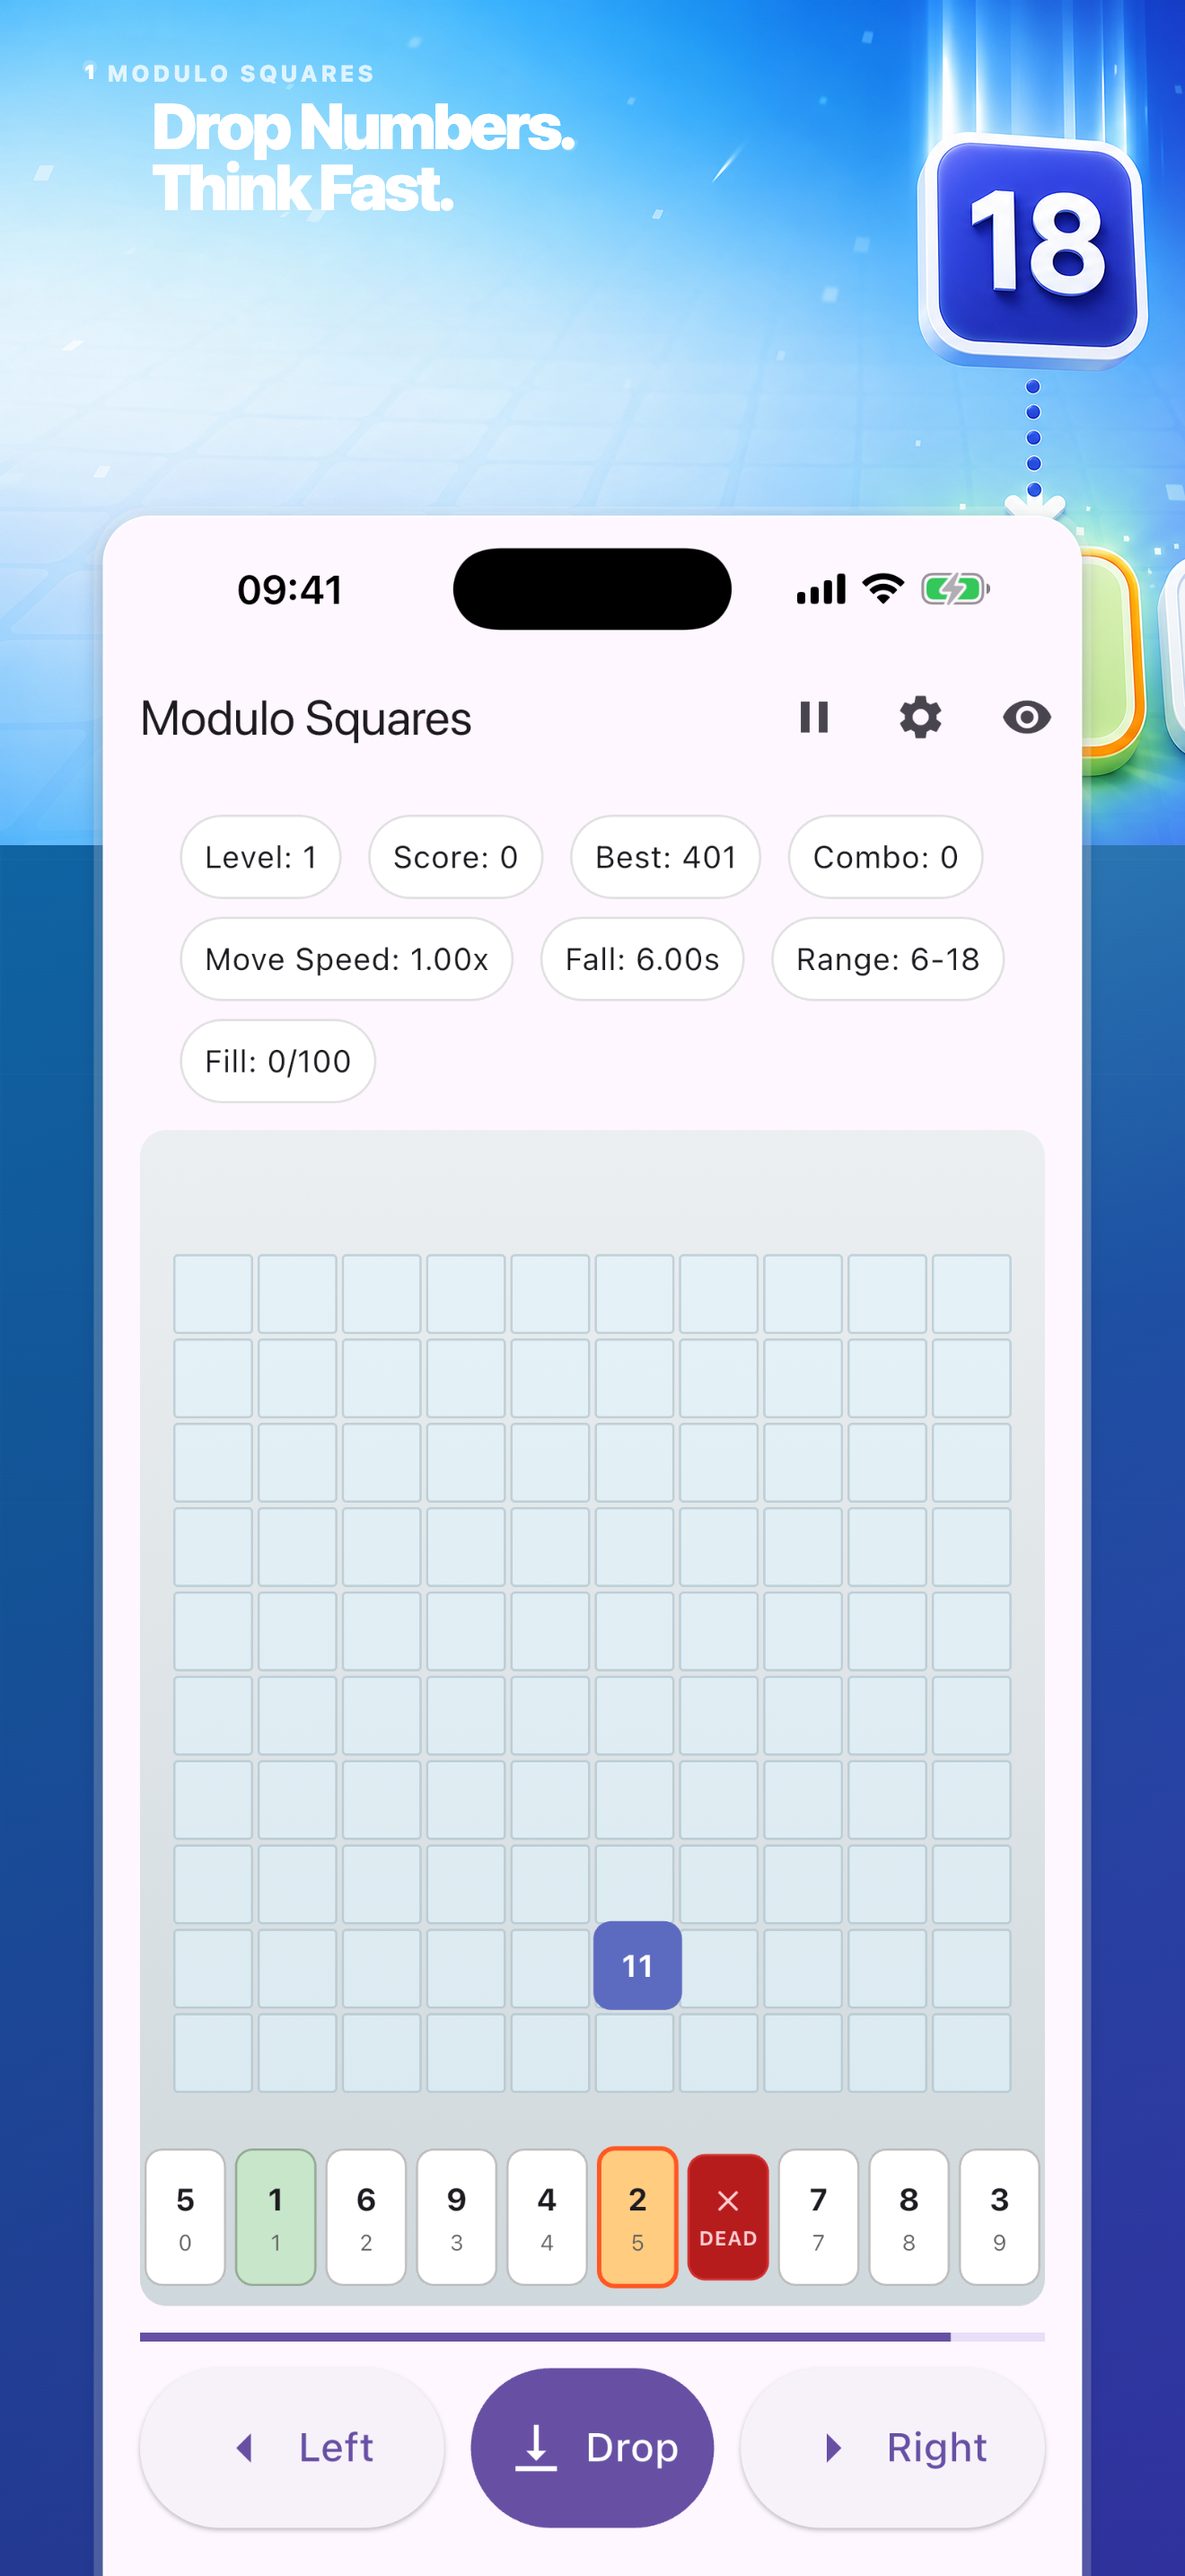
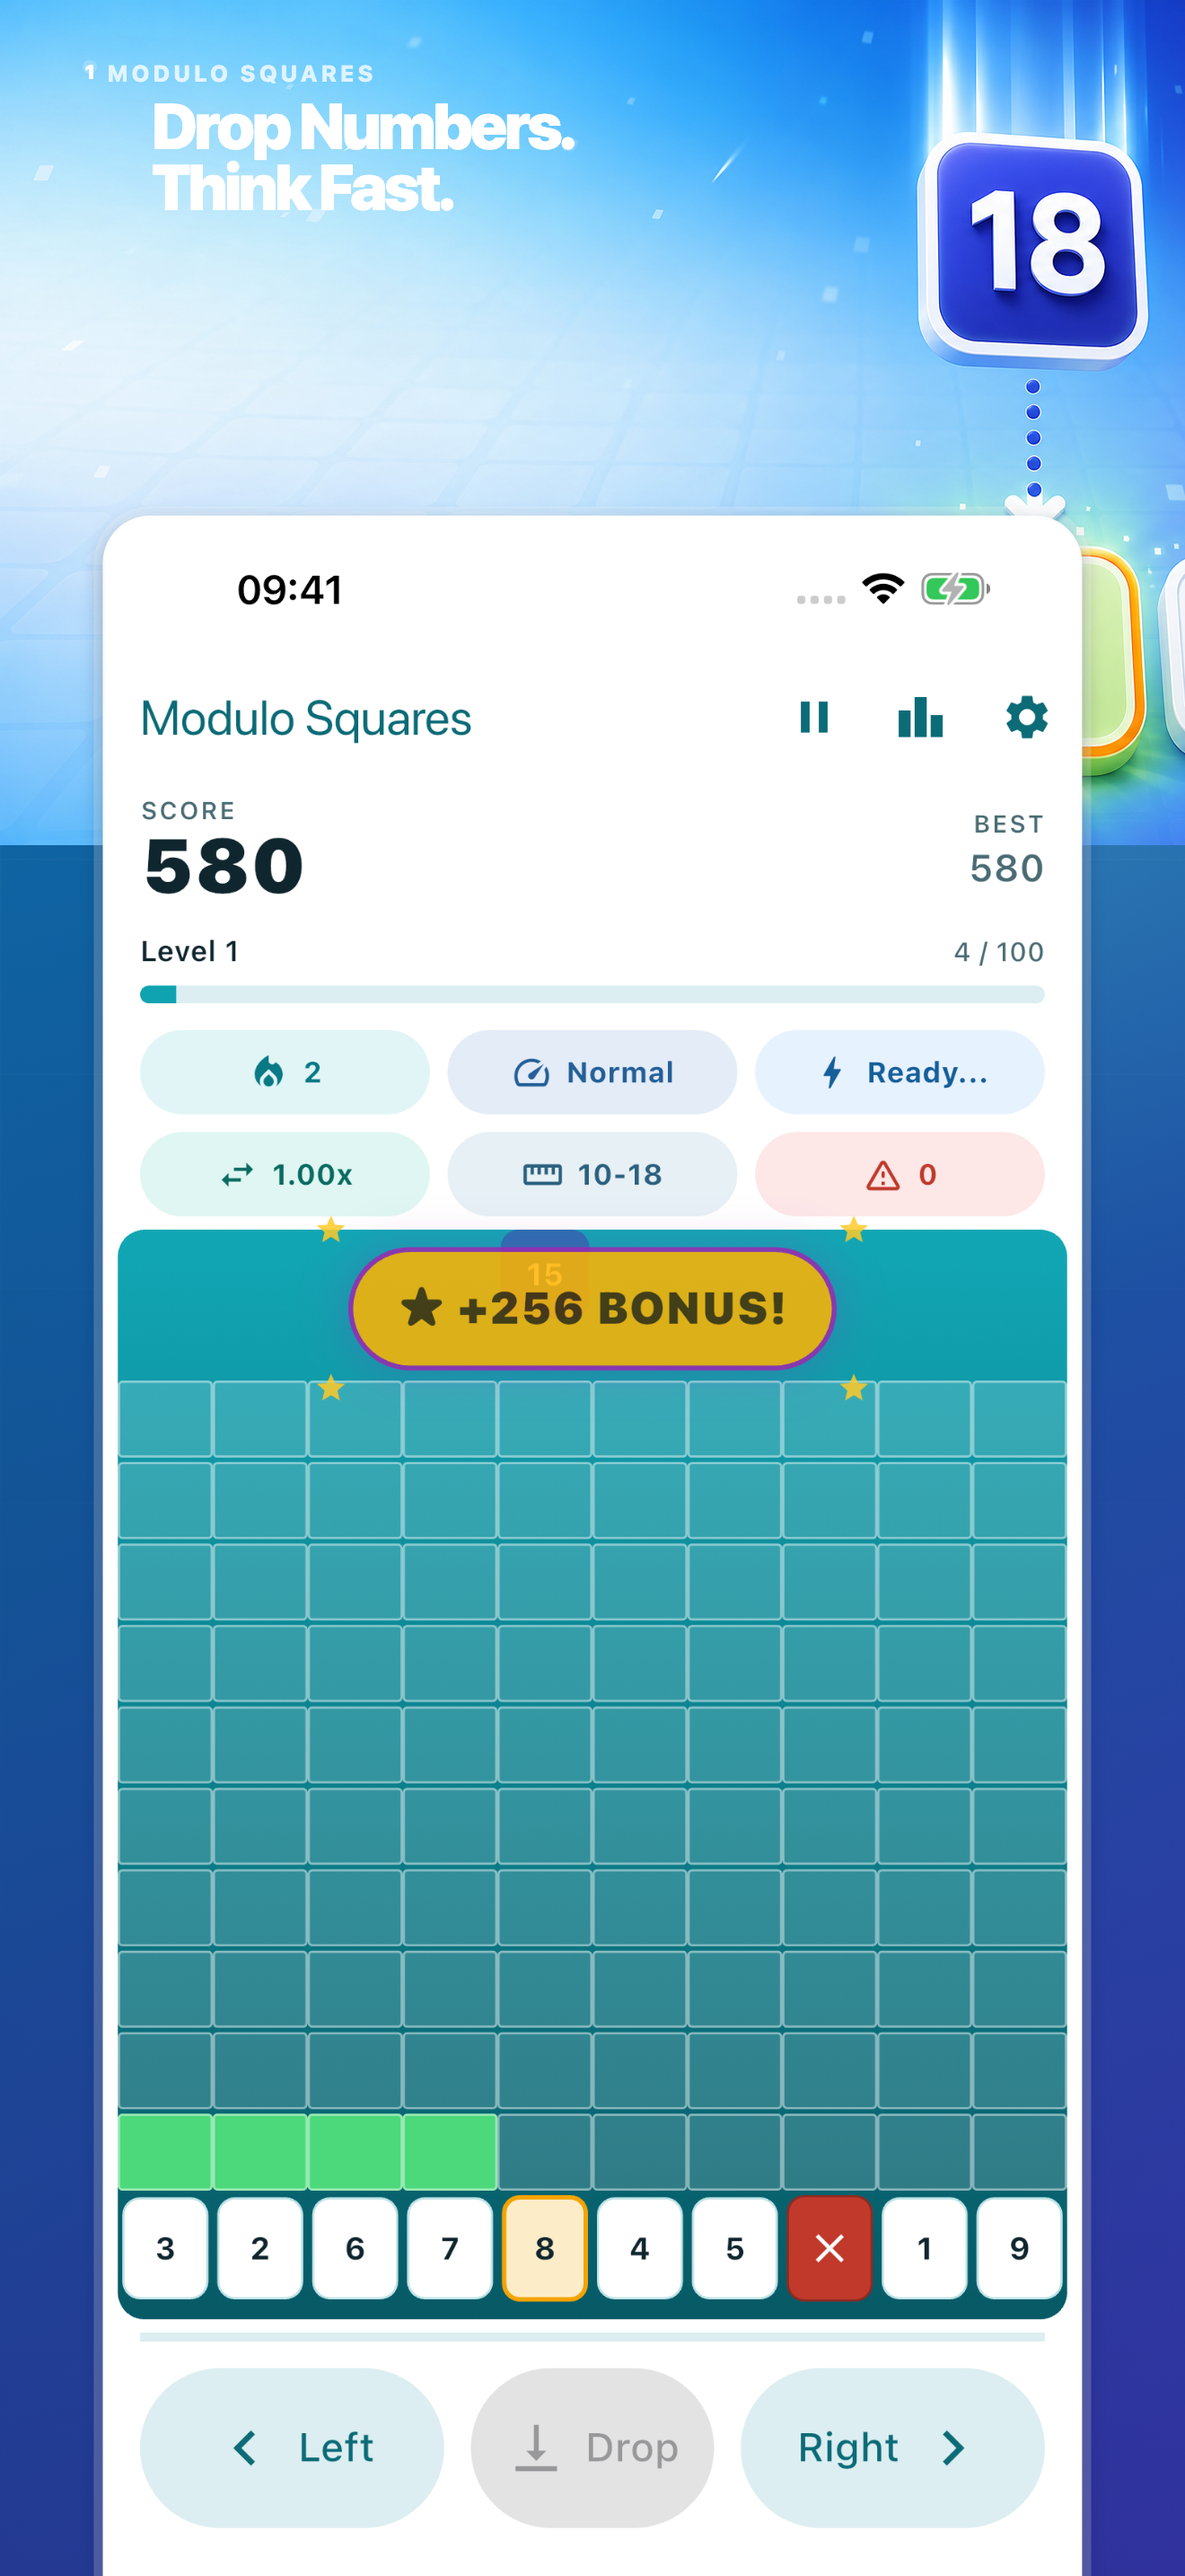
feat(ios): prepare 1.0.1 App Store submission
- Raise HUD chip text contrast to WCAG AA (4.5:1) across palettes, with a
  test that enforces it for every visible palette.
- Refresh the six 6.9" App Store screenshots from the current build
  (themes/Appearance, redesigned Settings difficulty row).
- 1.0.1 release notes and a themes line in the description.
- Fastfile: submit_to_app_store no longer overwrites release_notes.txt with
  a generic default; both deliver lanes pass app_version from pubspec so
  deliver can create the 1.0.1 version; optional build_number pin; drop the
  Info.plist version lookup that only returned $(FLUTTER_BUILD_NAME).

diff --git a/packages/mobile/lib/features/game/models/game_theme.dart b/packages/mobile/lib/features/game/models/game_theme.dart
@@ -119,14 +119,14 @@ const Map<GameThemeId, GameThemePalette> gameThemePalettes = {
     textMuted: Color(0xFF4A6B73),
     progressTrack: Color(0xFFDCEEF1),
     progressFill: Color(0xFF0FA3B1),
-    chipCombo: GameChipColors(bg: Color(0xFFE1F5F6), fg: Color(0xFF0FA3B1)),
+    chipCombo: GameChipColors(bg: Color(0xFFE1F5F6), fg: Color(0xFF087985)),
     chipDifficulty: GameChipColors(
       bg: Color(0xFFE3ECF7),
-      fg: Color(0xFF2A6FB0),
+      fg: Color(0xFF245F98),
     ),
-    chipFall: GameChipColors(bg: Color(0xFFE7F2FF), fg: Color(0xFF1C7ED6)),
-    chipMove: GameChipColors(bg: Color(0xFFDFF6F2), fg: Color(0xFF0E8C7F)),
-    chipRange: GameChipColors(bg: Color(0xFFE6F0F5), fg: Color(0xFF3A7CA5)),
+    chipFall: GameChipColors(bg: Color(0xFFE7F2FF), fg: Color(0xFF155E9A)),
+    chipMove: GameChipColors(bg: Color(0xFFDFF6F2), fg: Color(0xFF096B61)),
+    chipRange: GameChipColors(bg: Color(0xFFE6F0F5), fg: Color(0xFF2C607F)),
     chipDeficit: GameChipColors(bg: Color(0xFFFDE7E7), fg: Color(0xFFC0392B)),
     boardGradientFrom: Color(0xFF12A7B5),
     boardGradientTo: Color(0xFF075A66),
@@ -162,7 +162,7 @@ const Map<GameThemeId, GameThemePalette> gameThemePalettes = {
       bg: Color(0xFF22182F),
       fg: Color(0xFFFF3DCB),
     ),
-    chipFall: GameChipColors(bg: Color(0xFF16213B), fg: Color(0xFF3D7BFF)),
+    chipFall: GameChipColors(bg: Color(0xFF16213B), fg: Color(0xFF5F92FF)),
     chipMove: GameChipColors(bg: Color(0xFF182A22), fg: Color(0xFF39FF88)),
     chipRange: GameChipColors(bg: Color(0xFF2A2312), fg: Color(0xFFFFD23D)),
     chipDeficit: GameChipColors(bg: Color(0xFF2A1414), fg: Color(0xFFFF5C5C)),
@@ -195,15 +195,15 @@ const Map<GameThemeId, GameThemePalette> gameThemePalettes = {
     textMuted: Color(0xFF8A6A4E),
     progressTrack: Color(0xFFF3E3D6),
     progressFill: Color(0xFFE8734A),
-    chipCombo: GameChipColors(bg: Color(0xFFFDECC8), fg: Color(0xFFB5651D)),
+    chipCombo: GameChipColors(bg: Color(0xFFFDECC8), fg: Color(0xFF85430F)),
     chipDifficulty: GameChipColors(
       bg: Color(0xFFFCE3D6),
-      fg: Color(0xFFC1440E),
+      fg: Color(0xFF913309),
     ),
-    chipFall: GameChipColors(bg: Color(0xFFFBEAD9), fg: Color(0xFFD46A28)),
-    chipMove: GameChipColors(bg: Color(0xFFFFF1E0), fg: Color(0xFFE08E45)),
-    chipRange: GameChipColors(bg: Color(0xFFF7E0CE), fg: Color(0xFFA85C2E)),
-    chipDeficit: GameChipColors(bg: Color(0xFFFDE2E2), fg: Color(0xFFC0392B)),
+    chipFall: GameChipColors(bg: Color(0xFFFBEAD9), fg: Color(0xFF95430F)),
+    chipMove: GameChipColors(bg: Color(0xFFFFF1E0), fg: Color(0xFF9C4B08)),
+    chipRange: GameChipColors(bg: Color(0xFFF7E0CE), fg: Color(0xFF7C3E18)),
+    chipDeficit: GameChipColors(bg: Color(0xFFFDE2E2), fg: Color(0xFFB53529)),
     boardGradientFrom: Color(0xFFF4A261),
     boardGradientTo: Color(0xFFE76F51),
     gridUnfilledBg: Color(0x38FFFFFF),
@@ -237,7 +237,7 @@ const Map<GameThemeId, GameThemePalette> gameThemePalettes = {
     textMuted: Color(0xFF6E4E82),
     progressTrack: Color(0xFFF1DFF7),
     progressFill: Color(0xFFFF3D9A),
-    chipCombo: GameChipColors(bg: Color(0xFFFDE1F3), fg: Color(0xFFD6006B)),
+    chipCombo: GameChipColors(bg: Color(0xFFFDE1F3), fg: Color(0xFFB80059)),
     chipDifficulty: GameChipColors(
       bg: Color(0xFFF3E1FD),
       fg: Color(0xFF7B1FA2),
@@ -245,7 +245,7 @@ const Map<GameThemeId, GameThemePalette> gameThemePalettes = {
     chipFall: GameChipColors(bg: Color(0xFFFFE8F5), fg: Color(0xFFC2185B)),
     chipMove: GameChipColors(bg: Color(0xFFF0E4FE), fg: Color(0xFF6A1B9A)),
     chipRange: GameChipColors(bg: Color(0xFFFCE4FF), fg: Color(0xFF9C27B0)),
-    chipDeficit: GameChipColors(bg: Color(0xFFFDE2E2), fg: Color(0xFFC0392B)),
+    chipDeficit: GameChipColors(bg: Color(0xFFFDE2E2), fg: Color(0xFFB53529)),
     boardGradientFrom: Color(0xFFFF6FB5),
     boardGradientTo: Color(0xFFB368FF),
     gridUnfilledBg: Color(0x40FFFFFF),

diff --git a/packages/mobile/test/features/game_theme_contrast_test.dart b/packages/mobile/test/features/game_theme_contrast_test.dart
@@ -1,0 +1,48 @@
+import 'dart:math' as math;
+
+import 'package:flutter/material.dart';
+import 'package:flutter_test/flutter_test.dart';
+import 'package:modulo_squares/features/game/models/game_theme.dart';
+
+double _linearChannel(int channel) {
+  final value = channel / 255;
+  return value <= 0.04045
+      ? value / 12.92
+      : math.pow((value + 0.055) / 1.055, 2.4).toDouble();
+}
+
+double _luminance(Color color) {
+  final argb = color.toARGB32();
+  return 0.2126 * _linearChannel((argb >> 16) & 0xff) +
+      0.7152 * _linearChannel((argb >> 8) & 0xff) +
+      0.0722 * _linearChannel(argb & 0xff);
+}
+
+double _contrast(Color first, Color second) {
+  final values = [_luminance(first), _luminance(second)]..sort();
+  return (values.last + 0.05) / (values.first + 0.05);
+}
+
+void main() {
+  test('visible palette HUD chips meet normal-text contrast', () {
+    for (final themeId in gameThemeOrder) {
+      final palette = gameThemePalettes[themeId]!;
+      final chips = {
+        'combo': palette.chipCombo,
+        'difficulty': palette.chipDifficulty,
+        'fall': palette.chipFall,
+        'move': palette.chipMove,
+        'range': palette.chipRange,
+        'deficit': palette.chipDeficit,
+      };
+
+      for (final entry in chips.entries) {
+        expect(
+          _contrast(entry.value.bg, entry.value.fg),
+          greaterThanOrEqualTo(4.5),
+          reason: '${palette.name} ${entry.key} chip must remain readable',
+        );
+      }
+    }
+  });
+}
